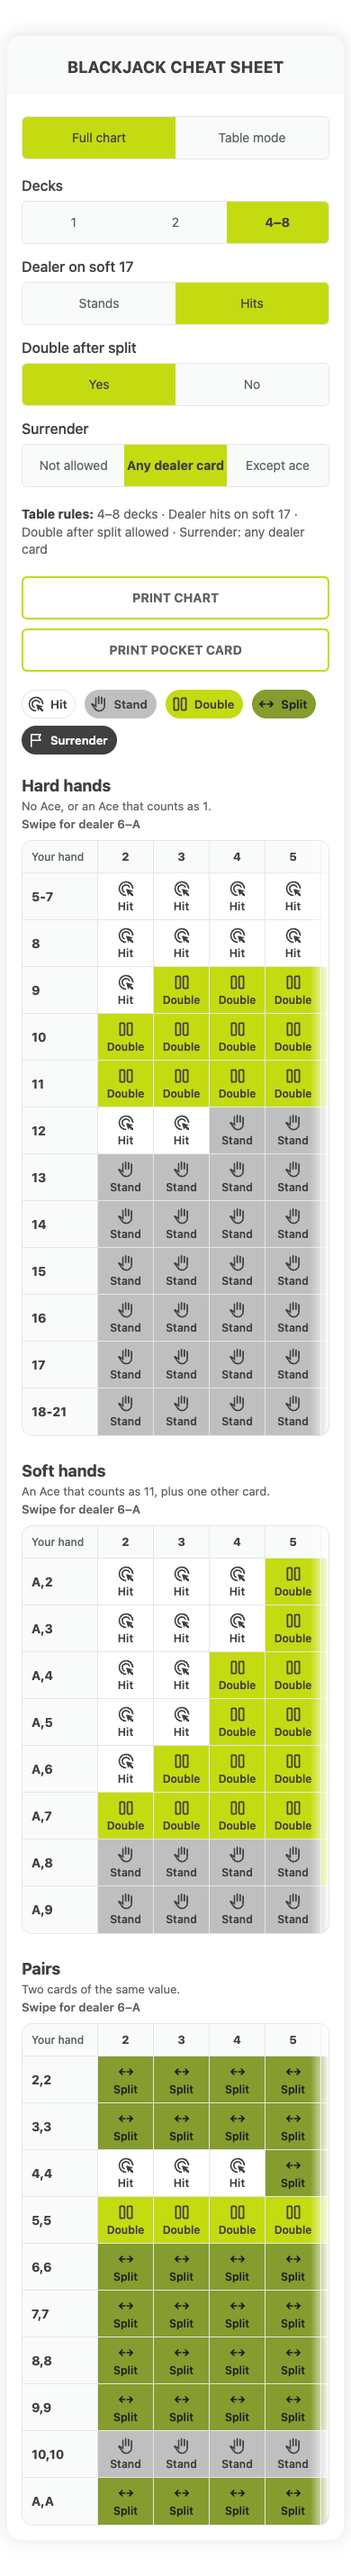
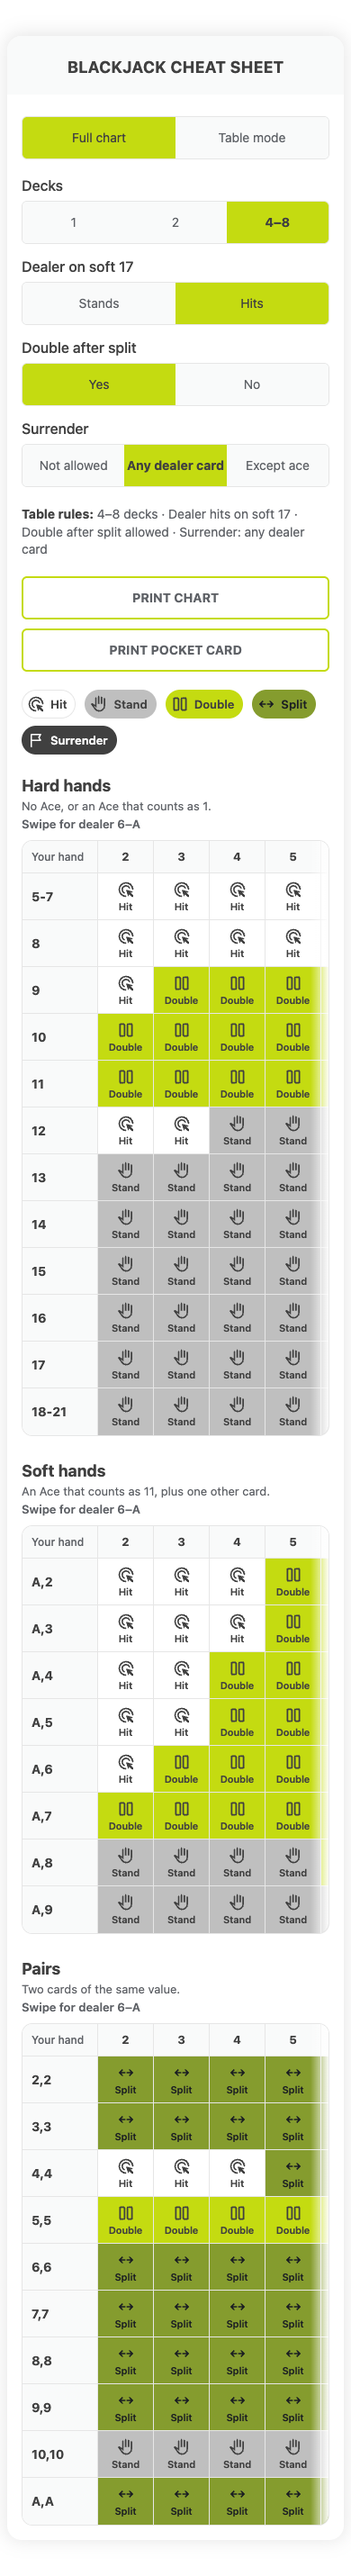
S-21: 390 cell word fit (D-080), Figma 390 reason panels synced; QA 12/12 — G3 visual approved

diff --git a/prototype/index.html b/prototype/index.html
@@ -258,6 +258,7 @@ table.chart { border-collapse: separate; border-spacing: 0; width: 100%; min-wid
   .toggle-row:has(.toggle-opt:nth-child(3)) .toggle-opt span { padding: 0 2px; }
   .print-row { flex-direction: column; }
   .print-btn { width: 100%; }
+  .chart td { font-size: 11px; letter-spacing: -0.2px; }
   .chart-section.has-more .sub { margin-bottom: 4px; }
   .chart-section.has-more .swipe-hint { display: block; }
   .chart-section.has-more .scroll-wrap::after {

diff --git a/prototype/src/index.template.html b/prototype/src/index.template.html
@@ -258,6 +258,7 @@ table.chart { border-collapse: separate; border-spacing: 0; width: 100%; min-wid
   .toggle-row:has(.toggle-opt:nth-child(3)) .toggle-opt span { padding: 0 2px; }
   .print-row { flex-direction: column; }
   .print-btn { width: 100%; }
+  .chart td { font-size: 11px; letter-spacing: -0.2px; }
   .chart-section.has-more .sub { margin-bottom: 4px; }
   .chart-section.has-more .swipe-hint { display: block; }
   .chart-section.has-more .scroll-wrap::after {

diff --git a/docs/figma/visual-spec.md b/docs/figma/visual-spec.md
@@ -29,7 +29,7 @@ Font: `font-family: Roboto, system-ui, -apple-system, "Segoe UI", Helvetica, Ari
 | Split | #859c2e | #1a1d22 | #1a1d22 |
 | Surrender | #404040 | #ffffff | #ffffff |
 
-Changed cell (State=Changed): `outline: 2px dashed <colour>; outline-offset: -2px` (dash 5/3), plus a 12×12px solid right-angle triangle in the top-right corner (`clip-path: polygon(0 0,100% 0,100% 100%)`), same colour. No text badge; cell size unchanged (52px). Meaning carried by the count line + aria text. Focus/open-cell outline: keep `3px solid #404040` on light cells; use `#ffffff` on Surrender cells.
+Changed cell (State=Changed): `outline: 2px dashed <colour>; outline-offset: -2px` (dash 5/3), plus a 12×12px solid right-angle triangle in the top-right corner (`clip-path: polygon(0 0,100% 0,100% 100%)`), same colour. No text badge; cell size unchanged (52px). Meaning carried by the count line + aria text. Focus/open-cell outline: `3px solid #404040` inside on light cells; `3px solid #ffffff` inside on Surrender cells (as drawn in the Reason panel frames).
 
 ## 2. Typography (Roboto)
 | Element | Weight / size | Colour | Other |
@@ -46,7 +46,7 @@ Changed cell (State=Changed): `outline: 2px dashed <colour>; outline-offset: -2p
 | Corner "Your hand" | 500 / 12 | #5e6166 | |
 | Dealer header (2…A) | 700 / 13 | #404040 | centred |
 | Row labels (5–7, A,2, 8,8) | 700 / 14 | #404040 | left, padding-left 10 |
-| Cell word | 600 / 12 | per move | |
+| Cell word | 600 / 12 (390: 11, letter-spacing -0.2px) | per move | |
 | Swipe cue (390) | 600 / 13 | #5e6166 | |
 | Reason panel title "Hard 16 vs dealer 10" | 700 / 16 | #404040 | |
 | Reason move chip word | 800 / 20 | #404040 | uppercase |
@@ -77,7 +77,7 @@ Changed cell (State=Changed): `outline: 2px dashed <colour>; outline-offset: -2p
 - **Recommended Play card** (Calculator 12337:1558 style): `1px solid #e6e6e6`, radius 12. Header fill #b4ca09 @15%, padding 12 16. Body padding 16 20 20 20. Dealer chip #eef0f2, radius 999, padding 2 10. Move row: radius 10, fill #c4db11 @20%, `1px solid #c4db11`, padding 8 12, gap 10; circle 40×40 #c4db11 @60% with 26px icon. Link row min-height 44 (padding 10 0). Changed marker: #fff, `2px dashed #1a1a1a` (6/3), radius 8, padding 6 10.
 
 ## 4. 390 differences
-Page side margin 8 → shell 374 wide; body padding 24 16 16 16; title 18. Rule panel one column. Print buttons stacked, full width. Chart box 342: pinned "Your hand" 84 + scroll area 257 (`overflow-x:auto`), dealer columns 62px (2–5 visible, 6 peeks), swipe cue above each box, right-edge fade 20px `linear-gradient(to right, rgba(255,255,255,0), rgba(255,255,255,.95))`. Page never wider than 390. Pick buttons 62×48. Card hand 34px.
+Page side margin 8 → shell 374 wide; body padding 24 16 16 16; title 18. Rule panel one column. Print buttons stacked, full width. Chart box 342: pinned "Your hand" 84 + scroll area 257 (`overflow-x:auto`), dealer columns 62px (2–5 visible, 6 peeks), swipe cue above each box, right-edge fade 20px `linear-gradient(to right, rgba(255,255,255,0), rgba(255,255,255,.95))`. Page never wider than 390. Chart cell word 11px, letter-spacing -0.2px (≤600px; 1280 stays 12px). At scroll end (e.g. a tapped cell in columns 8–A scrolled into view) the swipe cue and fade are hidden for that table only. Pick buttons 62×48. Card hand 34px.
 
 ## 5. Print (pt)
 - **Full (A4 portrait)**: page padding 28, content centred. Title 700 / 17, #404040, centred. Rules line 600 / 9.5. Legend pills 24 high, icon 16, word 600 / 10.4. Table H2 700 / 9.5. Grid lines **0.75pt #5e6166** (table background #5e6166 with 0.75 gaps + 0.75 padding). Header/row-label cells #f9fafa; corner 500 / 6.5 #5e6166; dealer 700 / 8. Rows 19 high (header 14), pinned column 60, cells 47 wide: icon 9 + word 600 / 6.8, move fills as screen.

diff --git a/docs/qa/2026-10-05-qa.md b/docs/qa/2026-10-05-qa.md
@@ -147,3 +147,14 @@ No high, medium or low failures.
 ## Screenshots
 - /Users/mariussolis/blackjack-cheat-sheet/docs/qa/screenshots/ (default-chart, reason-panel, table-mode-result, rules-changed; 390 and 1280; refreshed)
 - /Users/mariussolis/blackjack-cheat-sheet/docs/qa/visual/{default-chart,reason-panel,rules-changed,table-mode-result}-{1280,390}-side-by-side.png
+
+---
+
+## Re-run after D-080 (2026-10-05, 21:01-21:04 local, HEAD b33f1a3 + uncommitted prototype/Figma changes for D-080)
+
+Script: `node docs/qa/qa-run.mjs`, exit code 0, 0 console messages, 0 page errors, 75 requests all the one file. Checks 1-12 all PASS (rows 1-5, 7-11 unchanged from the S-21 re-run above).
+
+- Check 6 extended (D-080): at 390x844, each chart cell word measured with a Range against its cell; rule is word width <= cell width - 6px. Default chart (4-8, H17, DAS, any surrender; Hard 15/16/17 have adjacent Surrender cells) and all 36 rule sets (10,800 cells): font-size 11px, letter-spacing -0.2px, widest word "Surrender" 53.3px in a 62px cell (8.7px spare, limit 56px), 0 cells over the limit.
+- Check 12: all 8 side-by-sides rebuilt in docs/qa/visual/ against the refreshed 390 Figma PNGs (and the refreshed cs-reason-panel-1280).
+- 390 side-by-side notes: reason-panel now matches Figma: the Hard table is scrolled to dealer 8-A with the tapped cell (16 vs 10) visible and the panel under it; "Surrender" cells have a clear gap to their neighbours in both. Default chart and rules-changed 390: same palette, markers, 52px rows and cell word size as Figma; only the font fallback wraps "Table rules" one line longer on the prototype (accepted, D-079). Prototype crop 390x3042 vs Figma 390x3091 (reason panel), within the earlier tolerance.
+- No new findings.

diff --git a/docs/decisions.md b/docs/decisions.md
@@ -83,3 +83,4 @@ Format: ID · date · decision · by. Newest at the bottom. Superseded rows move
 | D-077 | 2026-10-05 | S-21 input: figma-designer writes docs/figma/visual-spec.md (exact tokens, palette, fonts, sizes, spacing, button + marker styles for the tool frames) because ui-dev has no Figma access; figma-designer write list += that file. Existing style-only test assertions that encode the old look (e.g. E53 olive title, 9px badge) may be updated in S-21 to the signed-off values; behaviour assertions may not change | Lead |
 | D-078 | 2026-10-05 | S-21 build choices from the visual spec: unselected rule-toggle text #5e6166 for both 2- and 3-option toggles (Figma's #757575 fails 4.41:1); pocket card title left-aligned as in Figma, sheet centred on the page; focus ring 3px #404040, white on Surrender | Lead |
 | D-079 | 2026-10-05 | S-21: build.js may change how icons are inlined (CSS mask data-URI + token background) for exact icon colours; the pinned icon files stay byte-identical. Accepted differences vs Figma: system-font fallback where Roboto isn't installed (prototype is offline); row labels keep engine hyphen "5-7" (strings unchanged, D-076); browser default dash pattern; print full rows 6mm to fit one Letter page. Mode switch unselected text #5e6166 (D-078) | Lead |
+| D-080 | 2026-10-05 | G3 visual: approve B — at 390 tighten the chart cell word (letter-spacing and/or 1px smaller) so "Surrender" never touches its neighbour; re-run QA + 390 side-by-sides; keep scroll-to-tapped-cell (S-10). Figma: 390 reason-panel frames 14058:8815 and 14058:656063 scrolled to show the tapped cell + same cell-word spacing. Then Codex review → G6 push → handoff zip → S-15 drafts for G5 | Marius |

diff --git a/docs/stories/S-21-visual-sync.md b/docs/stories/S-21-visual-sync.md
@@ -1,6 +1,6 @@
 # S-21 — Prototype looks like the signed-off Figma (tool only, no logic change)
 
-State: reviewed (G3 pending) · Agent: ui-dev, then qa-tester (separate step) · Goal served: 2 (usable at the table: readable, printable chart) · Gate: G3 (visual sign-off)
+State: done (G3 D-080) · Agent: ui-dev, then qa-tester (separate step) · Goal served: 2 (usable at the table: readable, printable chart) · Gate: G3 (visual sign-off)
 
 ## Why
 Figma was signed off at G4 (D-074/075), but the prototype still has the older look (olive title, 9px "Changed" badge, grey toggle text). D-076 asks the prototype to match Figma exactly in look, with no change in behaviour, so Marius can approve the visuals (G3) before Codex review, push and the S-15 handoff.
@@ -52,4 +52,4 @@ Builder part: PASS (story-reviewer + Lead, 2026-10-05); ACs 5–6 pending QA. QA
 | 6 | Pass | 8 side-by-sides in docs/qa/visual/ (prototype left, Figma right) with per-screen notes; Lead viewed rules-changed-1280, table-mode-result-390, reason-panel-390 |
 
 Overall: PASS (story-reviewer + Lead, 2026-10-05), G3 visual pending. Open for G3: 390 reason panel — prototype scrolls the table to the tapped column (8–A, by design since S-10) while Figma shows 2–5; "Surrender" is cramped in 62px cells at 390 with the fallback font.
-
+G3 (D-080): approved B — 390 chart cell word 11px / -0.2px ("Surrender" 53.3px in 62px cells, 0/10,800 over the limit); Figma 390 reason panels scrolled to the tapped cell + white outline on Surrender; QA re-run 12/12, exit 0; Lead viewed reason-panel-390 side-by-side: match.

diff --git a/docs/backlog.md b/docs/backlog.md
@@ -44,7 +44,7 @@ Defaults on load: 4–8 decks · dealer hits soft 17 · DAS allowed · surrender
 ## Follow-ups
 | ID | Story (one output) | Agent | Goal | Gate | State |
 |---|---|---|---|---|---|
-| S-21 | Prototype full visual sync with the signed-off Figma (D-076): tokens, palette, typography/spacing, buttons, 52px changed marker, light outline on dark cells, print styling; tool only; no logic change; QA re-run + visual check vs Figma → G3 visual | ui-dev + qa-tester | 2 | G3 | reviewed (G3 pending) |
+| S-21 | Prototype full visual sync with the signed-off Figma (D-076): tokens, palette, typography/spacing, buttons, 52px changed marker, light outline on dark cells, print styling; tool only; no logic change; QA re-run + visual check vs Figma → G3 visual | ui-dev + qa-tester | 2 | G3 | done (G3 D-080) |
 
 ## v2 (next version, not now)
 - "Learn this chart": memory rules for the player's chart (D-051).
